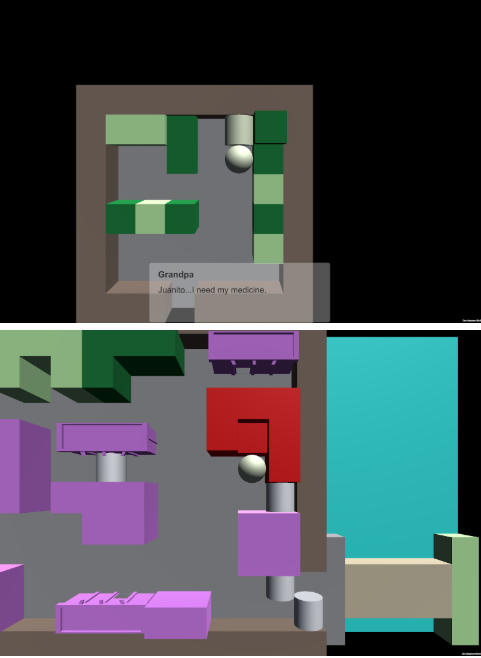
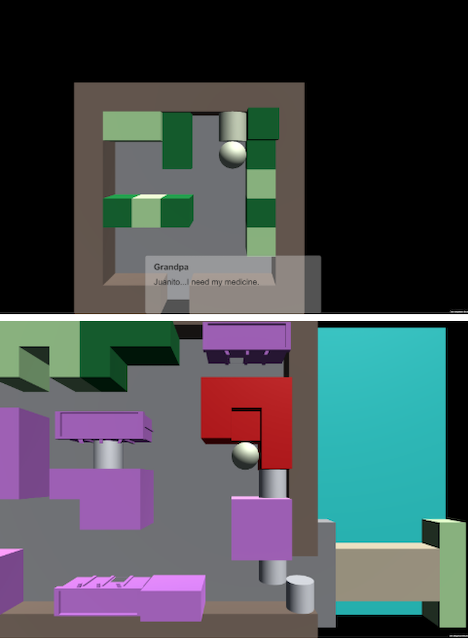
Adjust Image Size for Unity picture

Changed region(s): [[0.9274, 0.5312, 0.9573, 0.8125], [0.5085, 0.6875, 0.5684, 0.7188], [0.9573, 0.4688, 0.9872, 0.5]]

diff --git a/projects/process/j-e-n_technical-design.html b/projects/process/j-e-n_technical-design.html
@@ -111,12 +111,12 @@ img {vertical-align: middle;}
 <div class="mySlides fade">
   <div class="numbertext">1 / 3</div>
   <img src="http://jonathanmorales.net/images/Juanito/PaperPrototype.png" style="height:100%">
-  <div class="text">Caption Text</div>
+  <div class="text">First Paper Prototype</div>
 </div>
 
 <div class="mySlides fade">
   <div class="numbertext">2 / 3</div>
-  <img src="http://jonathanmorales.net/images/Juanito/unreal_prototype_1.png" style="width:100%">
+  <img src="http://jonathanmorales.net/images/Juanito/unity-prototype-1.png" style="width:100%">
   <div class="text">Caption Two</div>
 </div>
 
